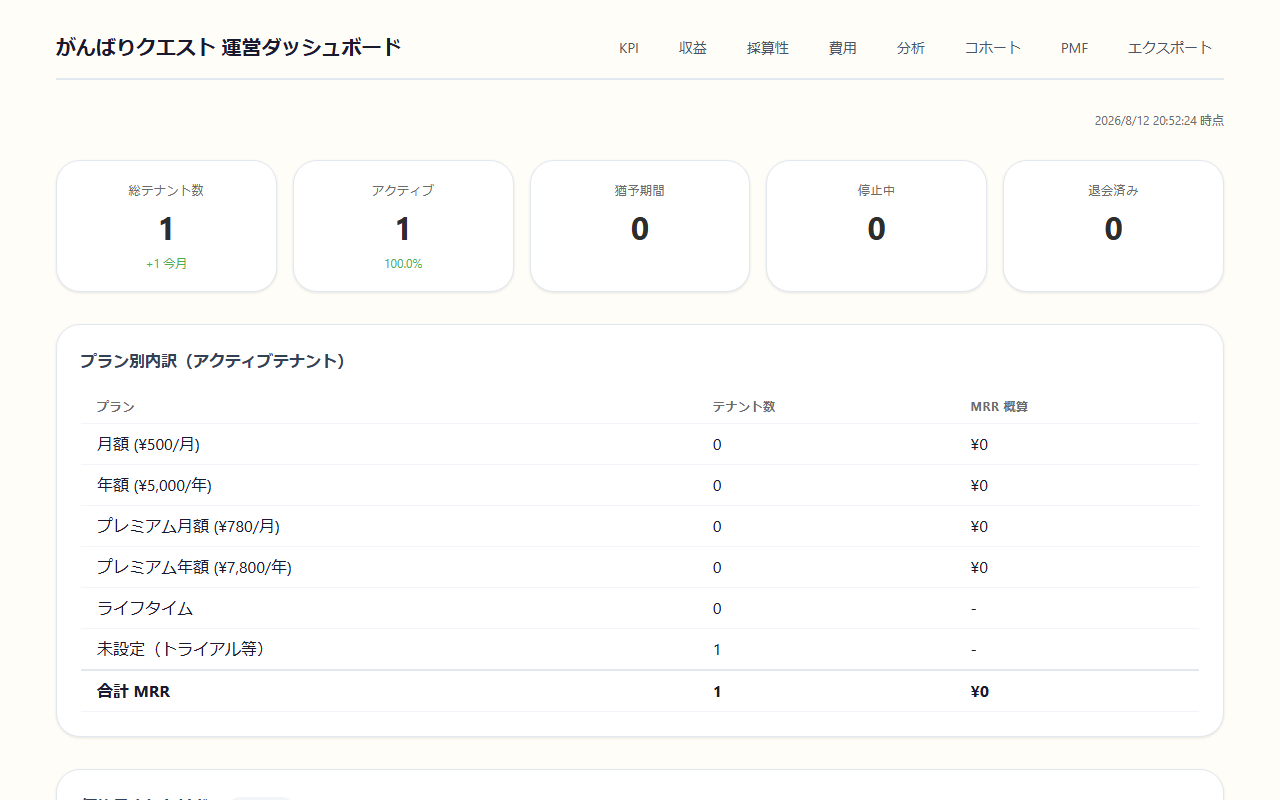
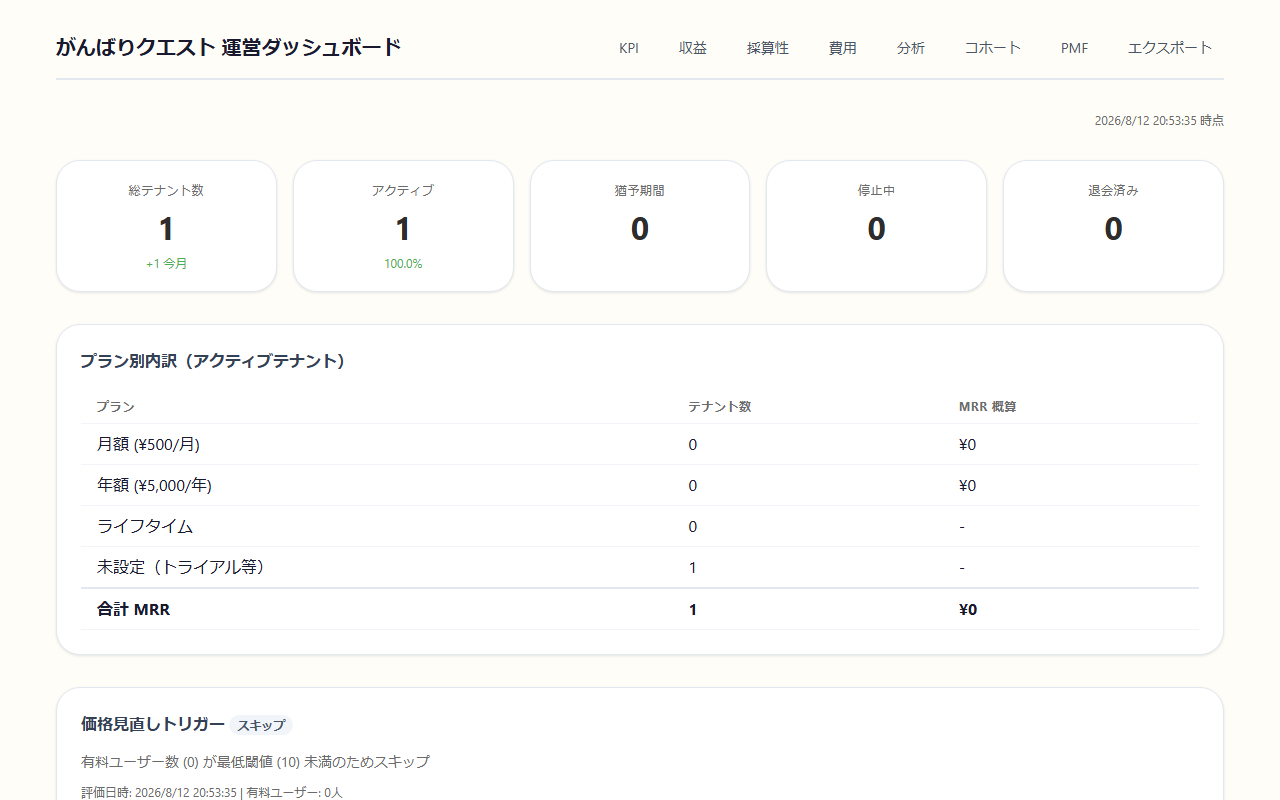
screenshots: PR #4506 (2026-08-12)

diff --git a/pr-4506/01-ops-plan-breakdown-with-premium.dom.html b/pr-4506/01-ops-plan-breakdown-with-premium.dom.html
@@ -4220,9 +4220,84 @@ h1, h2, h3, h4 {
 	color: var(--color-text-muted);
 }
  .svelte-1kc1wei{}</style>
-	</head>
+	<style type="text/css" data-vite-dev-id="C:/Users/kokor/Github/ganbari-quest-dev/.claude/worktrees/fix-4505-ops-premium/src/routes/ops/+layout.svelte?svelte&amp;type=style&amp;lang.css">
+	.ops-layout.svelte-1jk8rqa {
+		font-family: -apple-system, BlinkMacSystemFont, 'Segoe UI', Roboto, sans-serif;
+		max-width: 1200px;
+		margin: 0 auto;
+		padding: 1rem;
+		color: #1a1a2e;
+	}
+
+	.ops-header.svelte-1jk8rqa {
+		display: flex;
+		justify-content: space-between;
+		align-items: center;
+		gap: 1rem;
+		padding: 1rem 0;
+		border-bottom: 2px solid #e2e8f0;
+		margin-bottom: 2rem;
+	}
+
+	.ops-header.svelte-1jk8rqa h1:where(.svelte-1jk8rqa) {
+		font-size: 1.25rem;
+		font-weight: 700;
+		margin: 0;
+		flex-shrink: 0;
+	}
+
+	.ops-header.svelte-1jk8rqa nav:where(.svelte-1jk8rqa) {
+		display: flex;
+		gap: 1rem;
+		flex-wrap: nowrap;
+		overflow-x: auto;
+		-webkit-overflow-scrolling: touch;
+		scrollbar-width: thin;
+	}
+
+	.ops-header.svelte-1jk8rqa nav:where(.svelte-1jk8rqa) a:where(.svelte-1jk8rqa) {
+		color: #4a5568;
+		text-decoration: none;
+		font-size: 0.875rem;
+		padding: 0.25rem 0.75rem;
+		border-radius: 0.375rem;
+		transition: background 0.15s;
+		white-space: nowrap;
+		flex-shrink: 0;
+	}
+
+	.ops-header.svelte-1jk8rqa nav:where(.svelte-1jk8rqa) a:where(.svelte-1jk8rqa):hover {
+		background: #edf2f7;
+	}
+
+	.ops-main.svelte-1jk8rqa {
+		min-height: 60vh;
+	}
+
+	@media (max-width: 768px) {
+		.ops-layout.svelte-1jk8rqa {
+			padding: 0.75rem;
+		}
+
+		.ops-header.svelte-1jk8rqa {
+			flex-direction: column;
+			align-items: stretch;
+			gap: 0.75rem;
+			margin-bottom: 1.25rem;
+		}
+
+		.ops-header.svelte-1jk8rqa h1:where(.svelte-1jk8rqa) {
+			font-size: 1.125rem;
+		}
+
+		.ops-header.svelte-1jk8rqa nav:where(.svelte-1jk8rqa) {
+			margin: 0 -0.75rem;
+			padding: 0 0.75rem 0.5rem;
+		}
+	}
+ .svelte-1jk8rqa{}</style></head>
 	<body data-sveltekit-preload-data="hover">
-		<div style="display: contents"><!--[--><!--[0--><!--[--><!--[-1--><!--]--><!----> <!--[-1--><!--]--><!----> <!--[-1--><!--]--><!----> <!--[0--><!--[--><div class="ops-layout svelte-1jk8rqa"><header class="ops-header svelte-1jk8rqa"><h1 class="svelte-1jk8rqa">がんばりクエスト 運営ダッシュボード</h1> <nav class="svelte-1jk8rqa"><a href="/ops" class="svelte-1jk8rqa">KPI</a> <a href="/ops/revenue" class="svelte-1jk8rqa">収益</a> <a href="/ops/business" class="svelte-1jk8rqa">採算性</a> <a href="/ops/costs" class="svelte-1jk8rqa">費用</a> <a href="/ops/analytics" class="svelte-1jk8rqa">分析</a> <a href="/ops/cohort" class="svelte-1jk8rqa">コホート</a> <a href="/ops/pmf-survey" class="svelte-1jk8rqa">PMF</a> <a href="/ops/export" class="svelte-1jk8rqa">エクスポート</a></nav></header> <main class="ops-main svelte-1jk8rqa"><!--[-1--><!--[--><div class="flex flex-col gap-8 svelte-1ujk8l7"><div class="text-xs text-[var(--color-text-muted)] text-right svelte-1ujk8l7">2026/8/12 20:52:24 時点</div> <div class="grid grid-cols-[repeat(auto-fit,minmax(160px,1fr))] gap-4 svelte-1ujk8l7"><section class="rounded-[var(--card-radius)] overflow-hidden bg-[var(--card-bg)] shadow-[var(--card-shadow)] border border-[var(--color-border-default)] p-5 text-center"><!--[-1--><!--]--> <div><div class="ops-kpi-label svelte-1ujk8l7">総テナント数</div> <div class="text-[2rem] font-bold text-[var(--color-text)] svelte-1ujk8l7">1</div> <div class="text-xs text-[var(--color-success)] mt-1 svelte-1ujk8l7">+1 今月</div><!----></div> <!--[-1--><!--]--></section><!----> <section class="rounded-[var(--card-radius)] overflow-hidden bg-[var(--card-bg)] shadow-[var(--card-shadow)] border border-[var(--color-border-default)] p-5 text-center"><!--[-1--><!--]--> <div><div class="ops-kpi-label svelte-1ujk8l7">アクティブ</div> <div class="text-[2rem] font-bold text-[var(--color-text)] svelte-1ujk8l7">1</div> <div class="text-xs text-[var(--color-success)] mt-1 svelte-1ujk8l7">100.0%</div><!----></div> <!--[-1--><!--]--></section><!----> <section class="rounded-[var(--card-radius)] overflow-hidden bg-[var(--card-bg)] shadow-[var(--card-shadow)] border border-[var(--color-border-default)] p-5 text-center"><!--[-1--><!--]--> <div><div class="ops-kpi-label svelte-1ujk8l7">猶予期間</div> <div class="text-[2rem] font-bold text-[var(--color-text)] svelte-1ujk8l7">0</div><!----></div> <!--[-1--><!--]--></section><!----> <section class="rounded-[var(--card-radius)] overflow-hidden bg-[var(--card-bg)] shadow-[var(--card-shadow)] border border-[var(--color-border-default)] p-5 text-center"><!--[-1--><!--]--> <div><div class="ops-kpi-label svelte-1ujk8l7">停止中</div> <div class="text-[2rem] font-bold text-[var(--color-text)] svelte-1ujk8l7">0</div><!----></div> <!--[-1--><!--]--></section><!----> <section class="rounded-[var(--card-radius)] overflow-hidden bg-[var(--card-bg)] shadow-[var(--card-shadow)] border border-[var(--color-border-default)] p-5 text-center"><!--[-1--><!--]--> <div><div class="ops-kpi-label svelte-1ujk8l7">退会済み</div> <div class="text-[2rem] font-bold text-[var(--color-text)] svelte-1ujk8l7">0</div><!----></div> <!--[-1--><!--]--></section><!----></div> <section class="rounded-[var(--card-radius)] overflow-hidden bg-[var(--card-bg)] shadow-[var(--card-shadow)] border border-[var(--color-border-default)] "><!--[-1--><!--]--> <div class="p-6"><h2 class="text-base font-semibold m-0 mb-4 text-[var(--color-text-primary)] svelte-1ujk8l7">プラン別内訳（アクティブテナント）</h2> <table class="ops-table svelte-1ujk8l7"><thead class="svelte-1ujk8l7"><tr class="svelte-1ujk8l7"><th class="svelte-1ujk8l7">プラン</th><th class="svelte-1ujk8l7">テナント数</th><th class="svelte-1ujk8l7">MRR 概算</th></tr></thead><tbody class="svelte-1ujk8l7"><tr class="svelte-1ujk8l7"><td class="svelte-1ujk8l7">月額 (¥500/月)</td><td class="svelte-1ujk8l7">0</td><td class="svelte-1ujk8l7">¥0</td></tr><tr class="svelte-1ujk8l7"><td class="svelte-1ujk8l7">年額 (¥5,000/年)</td><td class="svelte-1ujk8l7">0</td><td class="svelte-1ujk8l7">¥0</td></tr><tr class="svelte-1ujk8l7"><td class="svelte-1ujk8l7">プレミアム月額 (¥780/月)</td><td class="svelte-1ujk8l7">0</td><td class="svelte-1ujk8l7">¥0</td></tr><tr class="svelte-1ujk8l7"><td class="svelte-1ujk8l7">プレミアム年額 (¥7,800/年)</td><td class="svelte-1ujk8l7">0</td><td class="svelte-1ujk8l7">¥0</td></tr><tr class="svelte-1ujk8l7"><td class="svelte-1ujk8l7">ライフタイム</td><td class="svelte-1ujk8l7">0</td><td class="svelte-1ujk8l7">-</td></tr><tr class="svelte-1ujk8l7"><td class="svelte-1ujk8l7">未設定（トライアル等）</td><td class="svelte-1ujk8l7">1</td><td class="svelte-1ujk8l7">-</td></tr><tr class="total-row svelte-1ujk8l7"><td class="svelte-1ujk8l7">合計 MRR</td><td class="svelte-1ujk8l7">1</td><td class="svelte-1ujk8l7">¥0</td></tr></tbody></table><!----></div> <!--[-1--><!--]--></section><!----> <section class="rounded-[var(--card-radius)] overflow-hidden bg-[var(--card-bg)] shadow-[var(--card-shadow)] border border-[var(--color-border-default)] "><!--[-1--><!--]--> <div class="p-6"><h2 class="text-base font-semibold m-0 mb-4 text-[var(--color-neutral-700)] svelte-1ujk8l7">価格見直しトリガー <!--[1--><span class="inline-flex items-center gap-1 rounded-[var(--badge-radius)] font-bold bg-gray-100 text-gray-600 text-xs px-2 py-0.5 "><!---->スキップ<!----></span><!----><!--]--></h2> <!--[0--><p class="text-sm text-[var(--color-text-muted)] svelte-1ujk8l7">有料ユーザー数 (0) が最低閾値 (10) 未満のためスキップ</p><!--]--> <div class="text-xs text-[var(--color-text-muted)] mt-3 svelte-1ujk8l7">評価日時: 2026/8/12 20:52:24 | 有料ユーザー: 0人</div><!----></div> <!--[-1--><!--]--></section><!----> <section class="rounded-[var(--card-radius)] overflow-hidden bg-[var(--card-bg)] shadow-[var(--card-shadow)] border border-[var(--color-border-default)] "><!--[-1--><!--]--> <div class="p-6"><h2 class="text-base font-semibold m-0 mb-4 text-[var(--color-neutral-700)] svelte-1ujk8l7">admin bypass merge メトリクス <!--[-1--><span class="inline-flex items-center gap-1 rounded-[var(--badge-radius)] font-bold bg-gray-100 text-gray-600 text-xs px-2 py-0.5 "><!---->データ未取得<!----></span><!----><!--]--></h2> <!--[0--><p class="text-sm text-[var(--color-text-muted)] svelte-1ujk8l7">GITHUB_TOKEN 未設定（GITHUB_TOKEN 未設定時は非表示。ADR-0044 参照）</p><!--]--> <div class="text-xs text-[var(--color-text-muted)] mt-3 svelte-1ujk8l7">取得日時: 2026/8/12 20:52:24 | 運用ルール: <a href="https://github.com/Takenori-Kusaka/ganbari-quest/blob/main/docs/decisions/archive/0044-admin-bypass-evidence.md" class="underline svelte-1ujk8l7">ADR-0044 (archive)</a></div><!----></div> <!--[-1--><!--]--></section><!----> <section class="rounded-[var(--card-radius)] overflow-hidden bg-[var(--card-bg)] shadow-[var(--card-shadow)] border border-[var(--color-border-default)] "><!--[-1--><!--]--> <div class="p-6"><h2 class="text-base font-semibold m-0 mb-2 text-[var(--color-text-primary)] svelte-1kc1wei">契約状態の監査 <!--[-1--><span class="inline-flex items-center gap-1 rounded-[var(--badge-radius)] font-bold bg-green-100 text-green-700 text-xs px-2 py-0.5 "><!---->正常<!----></span><!----><!--]--></h2> <p class="text-sm text-[var(--color-text-muted)] mb-4 svelte-1kc1wei">契約 4 列 (状態 / プラン / 契約 ID / 期限) の組み合わせを分類し、表に無い状態の行を出します。</p> <!--[0--><p class="text-sm text-[var(--color-text-muted)] svelte-1kc1wei">1 件すべて正常な状態です</p><!--]--> <div class="month-key-row svelte-1kc1wei" data-testid="ops-loyalty-month-key"><div class="month-key-head svelte-1kc1wei"><span class="svelte-1kc1wei">基準不明の継続月キー</span> <span class="inline-flex items-center gap-1 rounded-[var(--badge-radius)] font-bold bg-green-100 text-green-700 text-xs px-2 py-0.5 "><!---->0 件 / 保存済み 0 件<!----></span><!----></div> <p class="month-key-desc svelte-1kc1wei">値の基準が判別できない古い保存値です。残っている間、その家族の継続月数の加算は安全側に見送られます。</p></div><!----></div> <!--[-1--><!--]--></section><!----><!----> <section class="rounded-[var(--card-radius)] overflow-hidden bg-[var(--card-bg)] shadow-[var(--card-shadow)] border border-[var(--color-border-default)] "><!--[-1--><!--]--> <div class="p-6"><h2 class="text-base font-semibold m-0 mb-2 text-[var(--color-text-primary)] svelte-1ujk8l7">プラン判定できていない契約 <!--[0--><span class="inline-flex items-center gap-1 rounded-[var(--badge-radius)] font-bold bg-gray-100 text-gray-600 text-xs px-2 py-0.5 "><!---->無効（ローカルモード）<!----></span><!----><!--]--></h2> <p class="text-sm text-[var(--color-text-muted)] mb-4 svelte-1ujk8l7">Stripe の Price と env / lookup_key が食い違うと、課金額と使える機能がずれたまま滞留します。</p> <!--[0--><p class="text-sm text-[var(--color-text-muted)] svelte-1ujk8l7">Stripe 連携が無効な環境のため検査していません。</p><!--]--><!----></div> <!--[-1--><!--]--></section><!----> <section class="rounded-[var(--card-radius)] overflow-hidden bg-[var(--card-bg)] shadow-[var(--card-shadow)] border border-[var(--color-border-default)] "><!--[-1--><!--]--> <div class="p-6"><h2 class="text-base font-semibold m-0 mb-4 text-[var(--color-text-primary)] svelte-1ujk8l7">システム状態</h2> <div class="flex flex-col gap-2 svelte-1ujk8l7"><div class="flex gap-2 items-center svelte-1ujk8l7"><span class="font-medium text-[var(--color-text-secondary)] svelte-1ujk8l7">Stripe 連携:</span> <span class="font-semibold text-[var(--color-warning)] svelte-1ujk8l7">無効（ローカルモード）</span></div></div><!----></div> <!--[-1--><!--]--></section><!----></div><!--]--><!--]--><!----></main></div><!--]--><!--]--><!----> <!--[-1--><!--]--><!--]--><!--]--> <!--[-1--><!--]--><!--]-->
+		<div style="display: contents"><!--[--><!--[0--><!--[--><!--[-1--><!--]--><!----> <!--[-1--><!--]--><!----> <!--[-1--><!--]--><!----> <!--[0--><!--[--><div class="ops-layout svelte-1jk8rqa"><header class="ops-header svelte-1jk8rqa"><h1 class="svelte-1jk8rqa">がんばりクエスト 運営ダッシュボード</h1> <nav class="svelte-1jk8rqa"><a href="/ops" class="svelte-1jk8rqa">KPI</a> <a href="/ops/revenue" class="svelte-1jk8rqa">収益</a> <a href="/ops/business" class="svelte-1jk8rqa">採算性</a> <a href="/ops/costs" class="svelte-1jk8rqa">費用</a> <a href="/ops/analytics" class="svelte-1jk8rqa">分析</a> <a href="/ops/cohort" class="svelte-1jk8rqa">コホート</a> <a href="/ops/pmf-survey" class="svelte-1jk8rqa">PMF</a> <a href="/ops/export" class="svelte-1jk8rqa">エクスポート</a></nav></header> <main class="ops-main svelte-1jk8rqa"><!--[-1--><!--[--><div class="flex flex-col gap-8 svelte-1ujk8l7"><div class="text-xs text-[var(--color-text-muted)] text-right svelte-1ujk8l7">2026/8/12 20:53:35 時点</div> <div class="grid grid-cols-[repeat(auto-fit,minmax(160px,1fr))] gap-4 svelte-1ujk8l7"><section class="rounded-[var(--card-radius)] overflow-hidden bg-[var(--card-bg)] shadow-[var(--card-shadow)] border border-[var(--color-border-default)] p-5 text-center"><!--[-1--><!--]--> <div><div class="ops-kpi-label svelte-1ujk8l7">総テナント数</div> <div class="text-[2rem] font-bold text-[var(--color-text)] svelte-1ujk8l7">1</div> <div class="text-xs text-[var(--color-success)] mt-1 svelte-1ujk8l7">+1 今月</div><!----></div> <!--[-1--><!--]--></section><!----> <section class="rounded-[var(--card-radius)] overflow-hidden bg-[var(--card-bg)] shadow-[var(--card-shadow)] border border-[var(--color-border-default)] p-5 text-center"><!--[-1--><!--]--> <div><div class="ops-kpi-label svelte-1ujk8l7">アクティブ</div> <div class="text-[2rem] font-bold text-[var(--color-text)] svelte-1ujk8l7">1</div> <div class="text-xs text-[var(--color-success)] mt-1 svelte-1ujk8l7">100.0%</div><!----></div> <!--[-1--><!--]--></section><!----> <section class="rounded-[var(--card-radius)] overflow-hidden bg-[var(--card-bg)] shadow-[var(--card-shadow)] border border-[var(--color-border-default)] p-5 text-center"><!--[-1--><!--]--> <div><div class="ops-kpi-label svelte-1ujk8l7">猶予期間</div> <div class="text-[2rem] font-bold text-[var(--color-text)] svelte-1ujk8l7">0</div><!----></div> <!--[-1--><!--]--></section><!----> <section class="rounded-[var(--card-radius)] overflow-hidden bg-[var(--card-bg)] shadow-[var(--card-shadow)] border border-[var(--color-border-default)] p-5 text-center"><!--[-1--><!--]--> <div><div class="ops-kpi-label svelte-1ujk8l7">停止中</div> <div class="text-[2rem] font-bold text-[var(--color-text)] svelte-1ujk8l7">0</div><!----></div> <!--[-1--><!--]--></section><!----> <section class="rounded-[var(--card-radius)] overflow-hidden bg-[var(--card-bg)] shadow-[var(--card-shadow)] border border-[var(--color-border-default)] p-5 text-center"><!--[-1--><!--]--> <div><div class="ops-kpi-label svelte-1ujk8l7">退会済み</div> <div class="text-[2rem] font-bold text-[var(--color-text)] svelte-1ujk8l7">0</div><!----></div> <!--[-1--><!--]--></section><!----></div> <section class="rounded-[var(--card-radius)] overflow-hidden bg-[var(--card-bg)] shadow-[var(--card-shadow)] border border-[var(--color-border-default)] "><!--[-1--><!--]--> <div class="p-6"><h2 class="text-base font-semibold m-0 mb-4 text-[var(--color-text-primary)] svelte-1ujk8l7">プラン別内訳（アクティブテナント）</h2> <table class="ops-table svelte-1ujk8l7"><thead class="svelte-1ujk8l7"><tr class="svelte-1ujk8l7"><th class="svelte-1ujk8l7">プラン</th><th class="svelte-1ujk8l7">テナント数</th><th class="svelte-1ujk8l7">MRR 概算</th></tr></thead><tbody class="svelte-1ujk8l7"><tr class="svelte-1ujk8l7"><td class="svelte-1ujk8l7">月額 (¥500/月)</td><td class="svelte-1ujk8l7">0</td><td class="svelte-1ujk8l7">¥0</td></tr><tr class="svelte-1ujk8l7"><td class="svelte-1ujk8l7">年額 (¥5,000/年)</td><td class="svelte-1ujk8l7">0</td><td class="svelte-1ujk8l7">¥0</td></tr><tr class="svelte-1ujk8l7"><td class="svelte-1ujk8l7">ライフタイム</td><td class="svelte-1ujk8l7">0</td><td class="svelte-1ujk8l7">-</td></tr><tr class="svelte-1ujk8l7"><td class="svelte-1ujk8l7">未設定（トライアル等）</td><td class="svelte-1ujk8l7">1</td><td class="svelte-1ujk8l7">-</td></tr><tr class="total-row svelte-1ujk8l7"><td class="svelte-1ujk8l7">合計 MRR</td><td class="svelte-1ujk8l7">1</td><td class="svelte-1ujk8l7">¥0</td></tr></tbody></table><!----></div> <!--[-1--><!--]--></section><!----> <section class="rounded-[var(--card-radius)] overflow-hidden bg-[var(--card-bg)] shadow-[var(--card-shadow)] border border-[var(--color-border-default)] "><!--[-1--><!--]--> <div class="p-6"><h2 class="text-base font-semibold m-0 mb-4 text-[var(--color-neutral-700)] svelte-1ujk8l7">価格見直しトリガー <!--[1--><span class="inline-flex items-center gap-1 rounded-[var(--badge-radius)] font-bold bg-gray-100 text-gray-600 text-xs px-2 py-0.5 "><!---->スキップ<!----></span><!----><!--]--></h2> <!--[0--><p class="text-sm text-[var(--color-text-muted)] svelte-1ujk8l7">有料ユーザー数 (0) が最低閾値 (10) 未満のためスキップ</p><!--]--> <div class="text-xs text-[var(--color-text-muted)] mt-3 svelte-1ujk8l7">評価日時: 2026/8/12 20:53:35 | 有料ユーザー: 0人</div><!----></div> <!--[-1--><!--]--></section><!----> <section class="rounded-[var(--card-radius)] overflow-hidden bg-[var(--card-bg)] shadow-[var(--card-shadow)] border border-[var(--color-border-default)] "><!--[-1--><!--]--> <div class="p-6"><h2 class="text-base font-semibold m-0 mb-4 text-[var(--color-neutral-700)] svelte-1ujk8l7">admin bypass merge メトリクス <!--[-1--><span class="inline-flex items-center gap-1 rounded-[var(--badge-radius)] font-bold bg-gray-100 text-gray-600 text-xs px-2 py-0.5 "><!---->データ未取得<!----></span><!----><!--]--></h2> <!--[0--><p class="text-sm text-[var(--color-text-muted)] svelte-1ujk8l7">GITHUB_TOKEN 未設定（GITHUB_TOKEN 未設定時は非表示。ADR-0044 参照）</p><!--]--> <div class="text-xs text-[var(--color-text-muted)] mt-3 svelte-1ujk8l7">取得日時: 2026/8/12 20:53:35 | 運用ルール: <a href="https://github.com/Takenori-Kusaka/ganbari-quest/blob/main/docs/decisions/archive/0044-admin-bypass-evidence.md" class="underline svelte-1ujk8l7">ADR-0044 (archive)</a></div><!----></div> <!--[-1--><!--]--></section><!----> <section class="rounded-[var(--card-radius)] overflow-hidden bg-[var(--card-bg)] shadow-[var(--card-shadow)] border border-[var(--color-border-default)] "><!--[-1--><!--]--> <div class="p-6"><h2 class="text-base font-semibold m-0 mb-2 text-[var(--color-text-primary)] svelte-1kc1wei">契約状態の監査 <!--[-1--><span class="inline-flex items-center gap-1 rounded-[var(--badge-radius)] font-bold bg-green-100 text-green-700 text-xs px-2 py-0.5 "><!---->正常<!----></span><!----><!--]--></h2> <p class="text-sm text-[var(--color-text-muted)] mb-4 svelte-1kc1wei">契約 4 列 (状態 / プラン / 契約 ID / 期限) の組み合わせを分類し、表に無い状態の行を出します。</p> <!--[0--><p class="text-sm text-[var(--color-text-muted)] svelte-1kc1wei">1 件すべて正常な状態です</p><!--]--> <div class="month-key-row svelte-1kc1wei" data-testid="ops-loyalty-month-key"><div class="month-key-head svelte-1kc1wei"><span class="svelte-1kc1wei">基準不明の継続月キー</span> <span class="inline-flex items-center gap-1 rounded-[var(--badge-radius)] font-bold bg-green-100 text-green-700 text-xs px-2 py-0.5 "><!---->0 件 / 保存済み 0 件<!----></span><!----></div> <p class="month-key-desc svelte-1kc1wei">値の基準が判別できない古い保存値です。残っている間、その家族の継続月数の加算は安全側に見送られます。</p></div><!----></div> <!--[-1--><!--]--></section><!----><!----> <section class="rounded-[var(--card-radius)] overflow-hidden bg-[var(--card-bg)] shadow-[var(--card-shadow)] border border-[var(--color-border-default)] "><!--[-1--><!--]--> <div class="p-6"><h2 class="text-base font-semibold m-0 mb-2 text-[var(--color-text-primary)] svelte-1ujk8l7">プラン判定できていない契約 <!--[0--><span class="inline-flex items-center gap-1 rounded-[var(--badge-radius)] font-bold bg-gray-100 text-gray-600 text-xs px-2 py-0.5 "><!---->無効（ローカルモード）<!----></span><!----><!--]--></h2> <p class="text-sm text-[var(--color-text-muted)] mb-4 svelte-1ujk8l7">Stripe の Price と env / lookup_key が食い違うと、課金額と使える機能がずれたまま滞留します。</p> <!--[0--><p class="text-sm text-[var(--color-text-muted)] svelte-1ujk8l7">Stripe 連携が無効な環境のため検査していません。</p><!--]--><!----></div> <!--[-1--><!--]--></section><!----> <section class="rounded-[var(--card-radius)] overflow-hidden bg-[var(--card-bg)] shadow-[var(--card-shadow)] border border-[var(--color-border-default)] "><!--[-1--><!--]--> <div class="p-6"><h2 class="text-base font-semibold m-0 mb-4 text-[var(--color-text-primary)] svelte-1ujk8l7">システム状態</h2> <div class="flex flex-col gap-2 svelte-1ujk8l7"><div class="flex gap-2 items-center svelte-1ujk8l7"><span class="font-medium text-[var(--color-text-secondary)] svelte-1ujk8l7">Stripe 連携:</span> <span class="font-semibold text-[var(--color-warning)] svelte-1ujk8l7">無効（ローカルモード）</span></div></div><!----></div> <!--[-1--><!--]--></section><!----></div><!--]--><!--]--><!----></main></div><!--]--><!--]--><!----> <!--[-1--><!--]--><!--]--><!--]--> <!--[-1--><!--]--><!--]-->
 			
 			<script>
 				{
@@ -4239,7 +4314,7 @@ h1, h2, h3, h4 {
 					]).then(([kit, app]) => {
 						kit.start(app, element, {
 							node_ids: [0, 7, 59],
-							data: [{type:"data",data:{role:"owner",requestId:"a5464639-33e3-4c41-8f1e-c22ddd9942fd",isDemo:false},uses:{}},{type:"data",data:{},uses:{}},{type:"data",data:{kpi:{tenantStats:{total:1,active:1,gracePeriod:0,suspended:0,terminated:0,planBreakdown:{monthly:0,yearly:0,familyMonthly:0,familyYearly:0,lifetime:0,noPlan:1},mrrBreakdown:{monthly:0,yearly:0,familyMonthly:0,familyYearly:0,total:0},newThisMonth:1},activeRate:1,stripeEnabled:false,fetchedAt:"2026-08-12T11:52:24.047Z"},triggerReport:{month:"2026-08",evaluatedAt:"2026-08-12T11:52:24.046Z",triggers:[],firedTriggers:[],skipped:true,skipReason:"有料ユーザー数 (0) が最低閾値 (10) 未満のためスキップ",paidUserCount:0},adminBypass:{fetchedAt:"2026-08-12T11:52:24.046Z",lookbackMonths:3,available:false,reason:"GITHUB_TOKEN 未設定",monthly:[],totalAdminBypass:0,totalEvidenceMissing:0},planDrift:{skipped:"stripe-disabled",checked:0,truncated:false,unresolved:[],error:null},contractState:{counts:{S1:1,S2:0,S3:0,S4:0,S5:0,S6:0,X1:0,X2:0,X3:0,X4:0,UNCLASSIFIED:0},total:1,problemRows:[],truncated:0,loyaltyMonthKeys:{total:0,legacy:0}}},uses:{}}],
+							data: [{type:"data",data:{role:"owner",requestId:"ee6cea19-d12d-4f6f-83b4-80d73fa196a8",isDemo:false},uses:{}},{type:"data",data:{},uses:{}},{type:"data",data:{kpi:{tenantStats:{total:1,active:1,gracePeriod:0,suspended:0,terminated:0,planBreakdown:{monthly:0,yearly:0,familyMonthly:0,familyYearly:0,lifetime:0,noPlan:1},mrrBreakdown:{monthly:0,yearly:0,familyMonthly:0,familyYearly:0,total:0},newThisMonth:1},activeRate:1,stripeEnabled:false,fetchedAt:"2026-08-12T11:53:35.408Z"},triggerReport:{month:"2026-08",evaluatedAt:"2026-08-12T11:53:35.407Z",triggers:[],firedTriggers:[],skipped:true,skipReason:"有料ユーザー数 (0) が最低閾値 (10) 未満のためスキップ",paidUserCount:0},adminBypass:{fetchedAt:"2026-08-12T11:53:35.407Z",lookbackMonths:3,available:false,reason:"GITHUB_TOKEN 未設定",monthly:[],totalAdminBypass:0,totalEvidenceMissing:0},planDrift:{skipped:"stripe-disabled",checked:0,truncated:false,unresolved:[],error:null},contractState:{counts:{S1:1,S2:0,S3:0,S4:0,S5:0,S6:0,X1:0,X2:0,X3:0,X4:0,UNCLASSIFIED:0},total:1,problemRows:[],truncated:0,loyaltyMonthKeys:{total:0,legacy:0}}},uses:{}}],
 							form: null,
 							error: null
 						});
